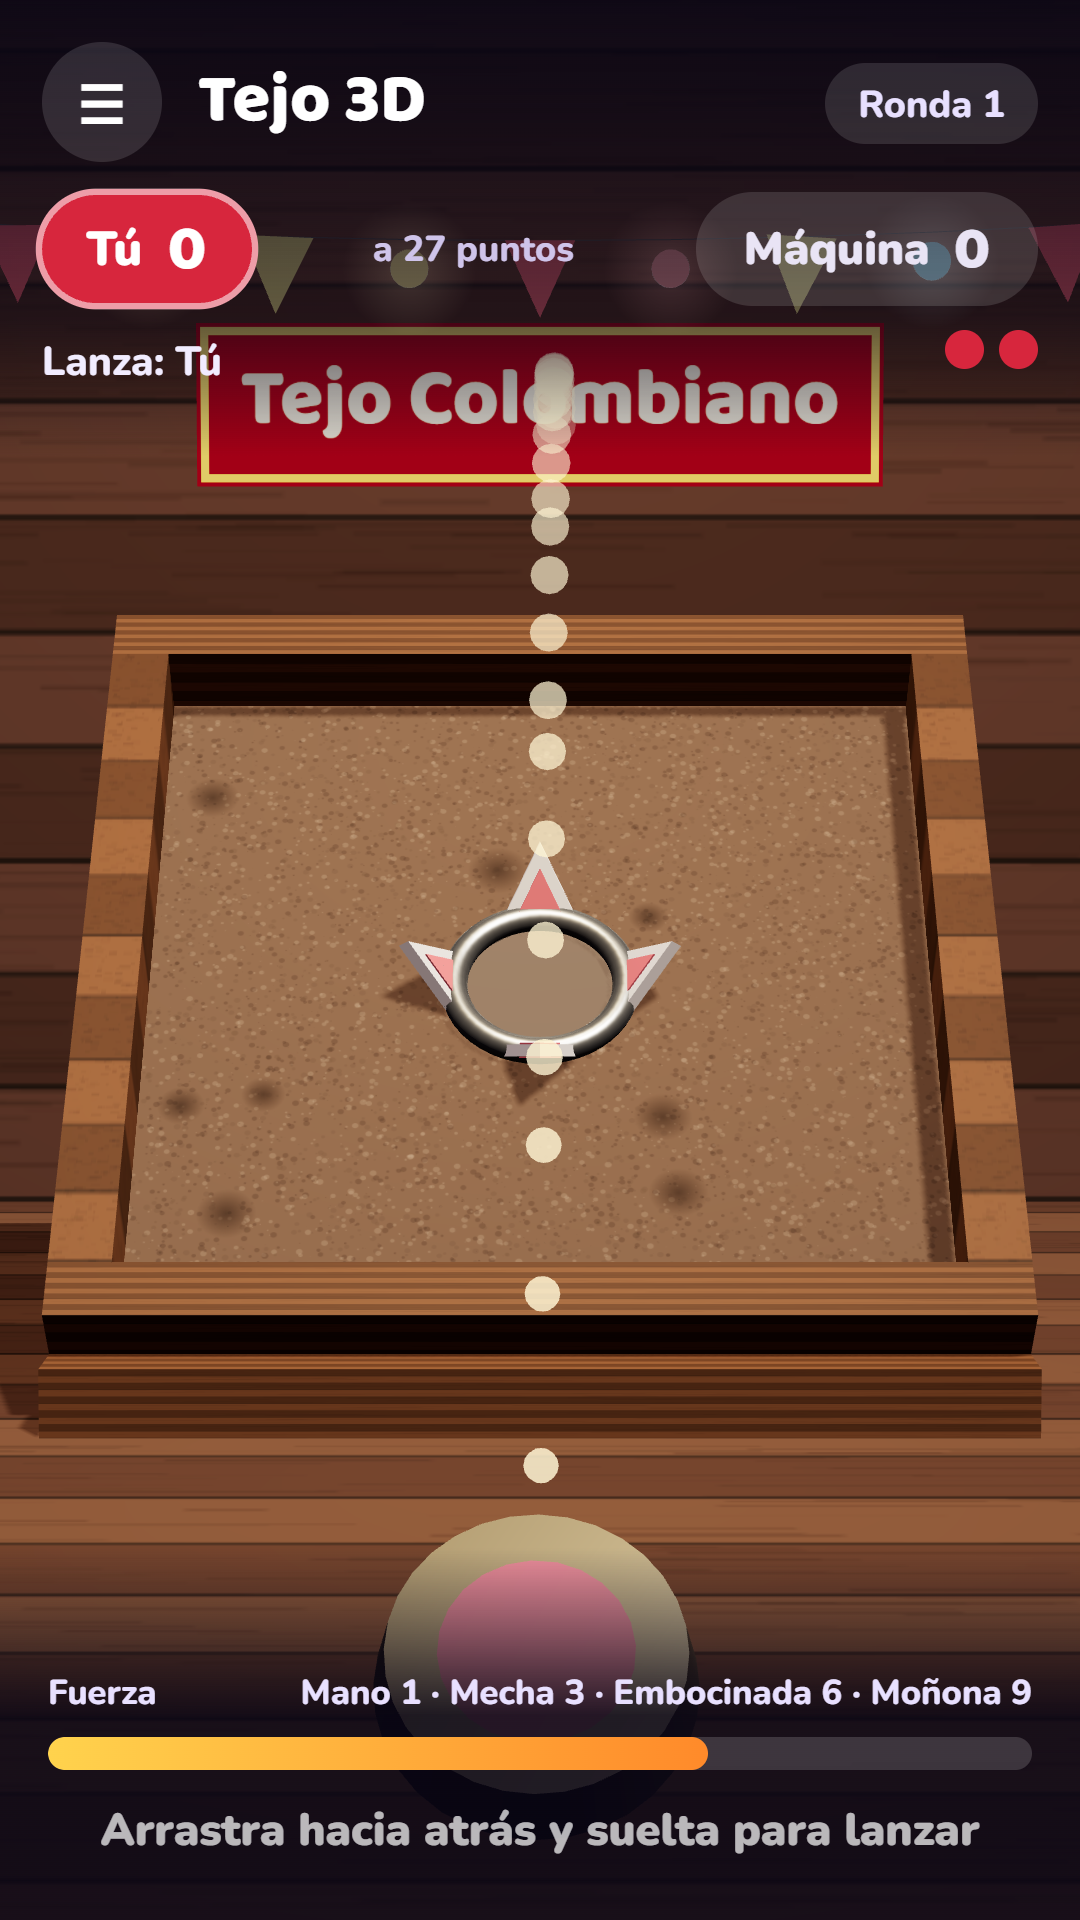
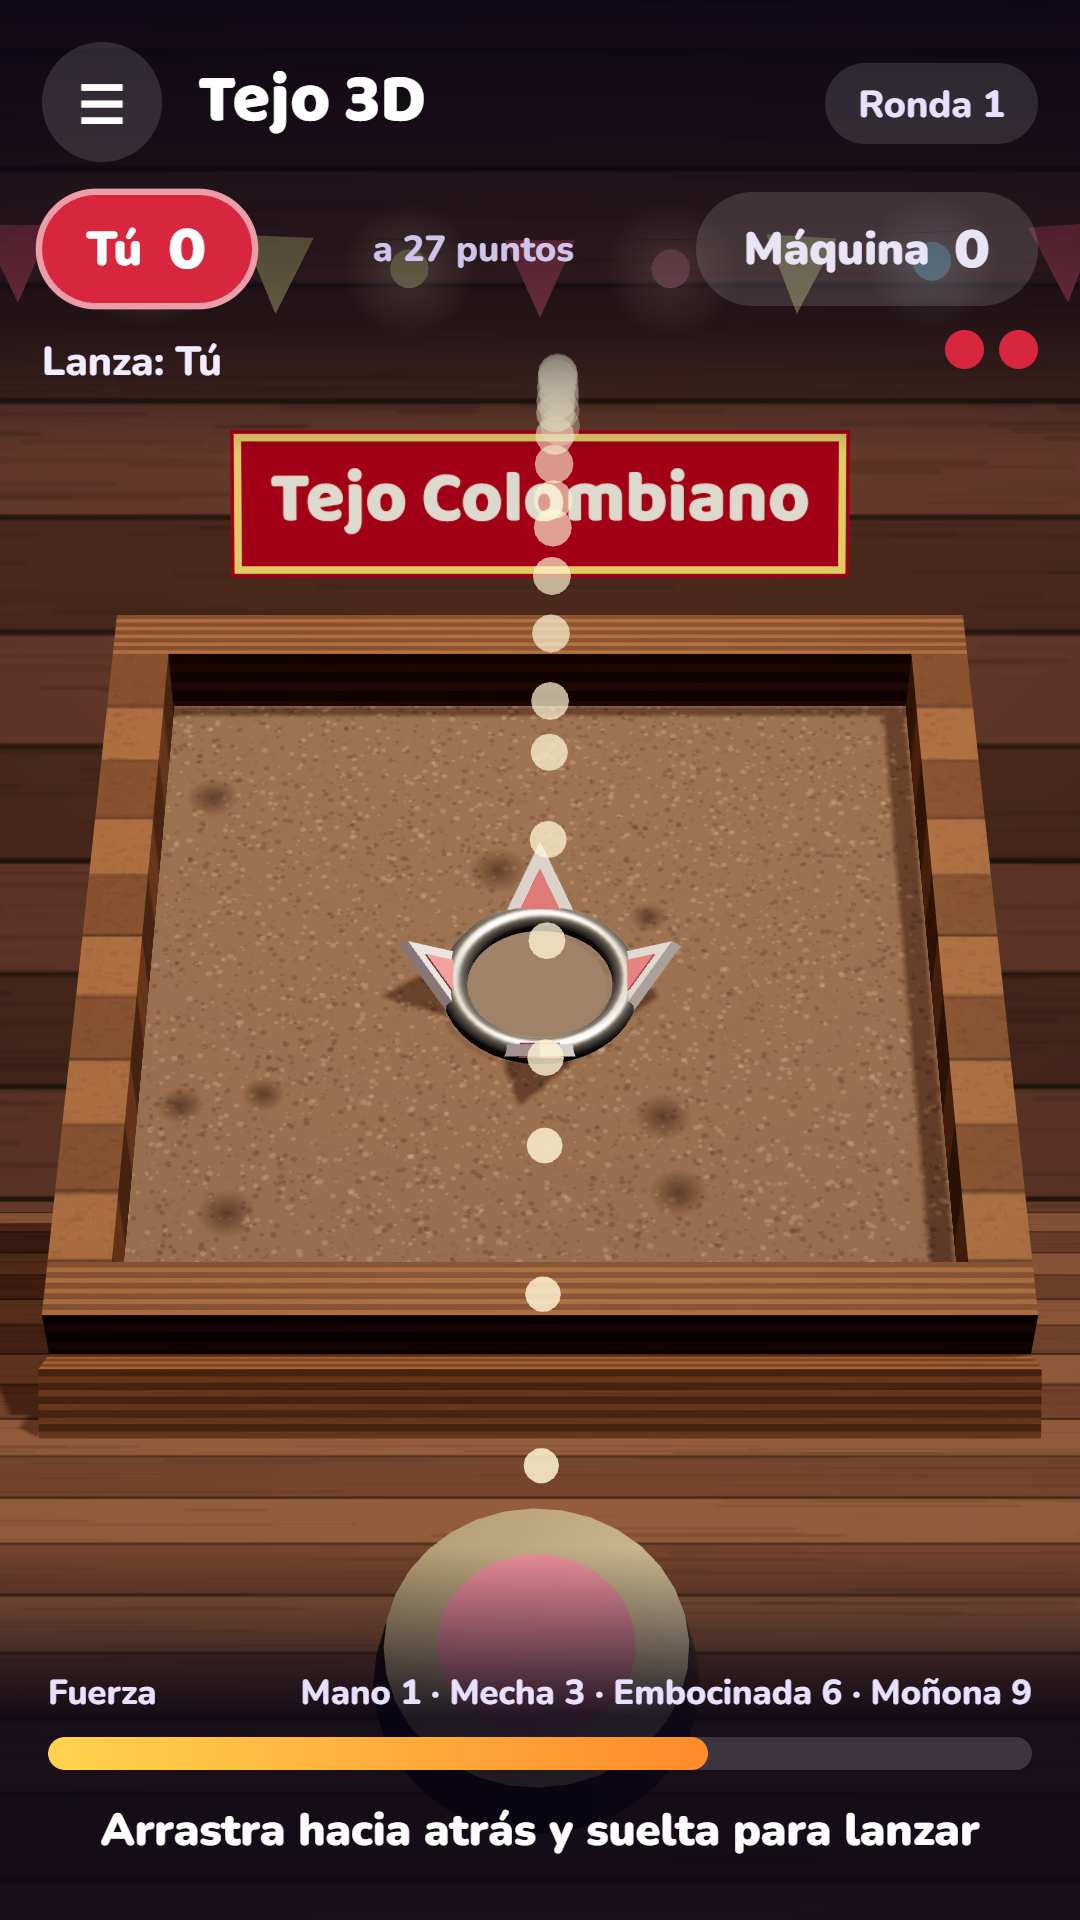
Juegos de Colombia: baja el letrero del tejo y actualiza las capturas
En celulares cortos el letrero «Tejo Colombiano» quedaba detrás del marcador.

Changed region(s): [[0.1833, 0.1562, 0.825, 0.3125], [0.0917, 0.9375, 0.9167, 0.9688], [0.3972, 0.7812, 0.5806, 0.8125]]

diff --git a/OrbeJuegos/app/src/main/assets/www/js/tejo.js b/OrbeJuegos/app/src/main/assets/www/js/tejo.js
@@ -50,8 +50,8 @@
     const fl = mesh(scene, new THREE.PlaneGeometry(40, 40), std({ map: tex(512, 512, planks('#6b4a35', '#57392a', 'rgba(0,0,0,.45)', 14), 7, 7), roughness: .9 }), V(0, 0, 0));
     fl.rotation.x = -Math.PI / 2;
     mesh(scene, new THREE.PlaneGeometry(18, 9), std({ map: tex(512, 512, planks('#5b4038', '#4a322b', 'rgba(0,0,0,.5)', 12), 3, 2), roughness: .95 }), V(0, 4.5, -2.7));
-    const sign = mesh(scene, new THREE.PlaneGeometry(3.6, 0.85), new THREE.MeshBasicMaterial({ map: OJ.signTex('Tejo Colombiano', '#a32424', '#ffd34d', '#fff3d6', '800 150px "Baloo 2", sans-serif') }), V(0, 2.62, -2.65), false);
-    sign.scale.setScalar(0.62);
+    const sign = mesh(scene, new THREE.PlaneGeometry(3.6, 0.85), new THREE.MeshBasicMaterial({ map: OJ.signTex('Tejo Colombiano', '#a32424', '#ffd34d', '#fff3d6', '800 150px "Baloo 2", sans-serif') }), V(0, 2.3, -2.65), false);
+    sign.scale.setScalar(0.56);
     OJ.guirnalda(scene, 3.45, -4.5, 4.5, -2.25, 0.35);
     OJ.guirnalda(scene, 4.0, -4.5, 4.5, 1.2, 0.4);
     scene.add(new THREE.HemisphereLight(0xc7b3ff, 0x3a2414, 0.42));
